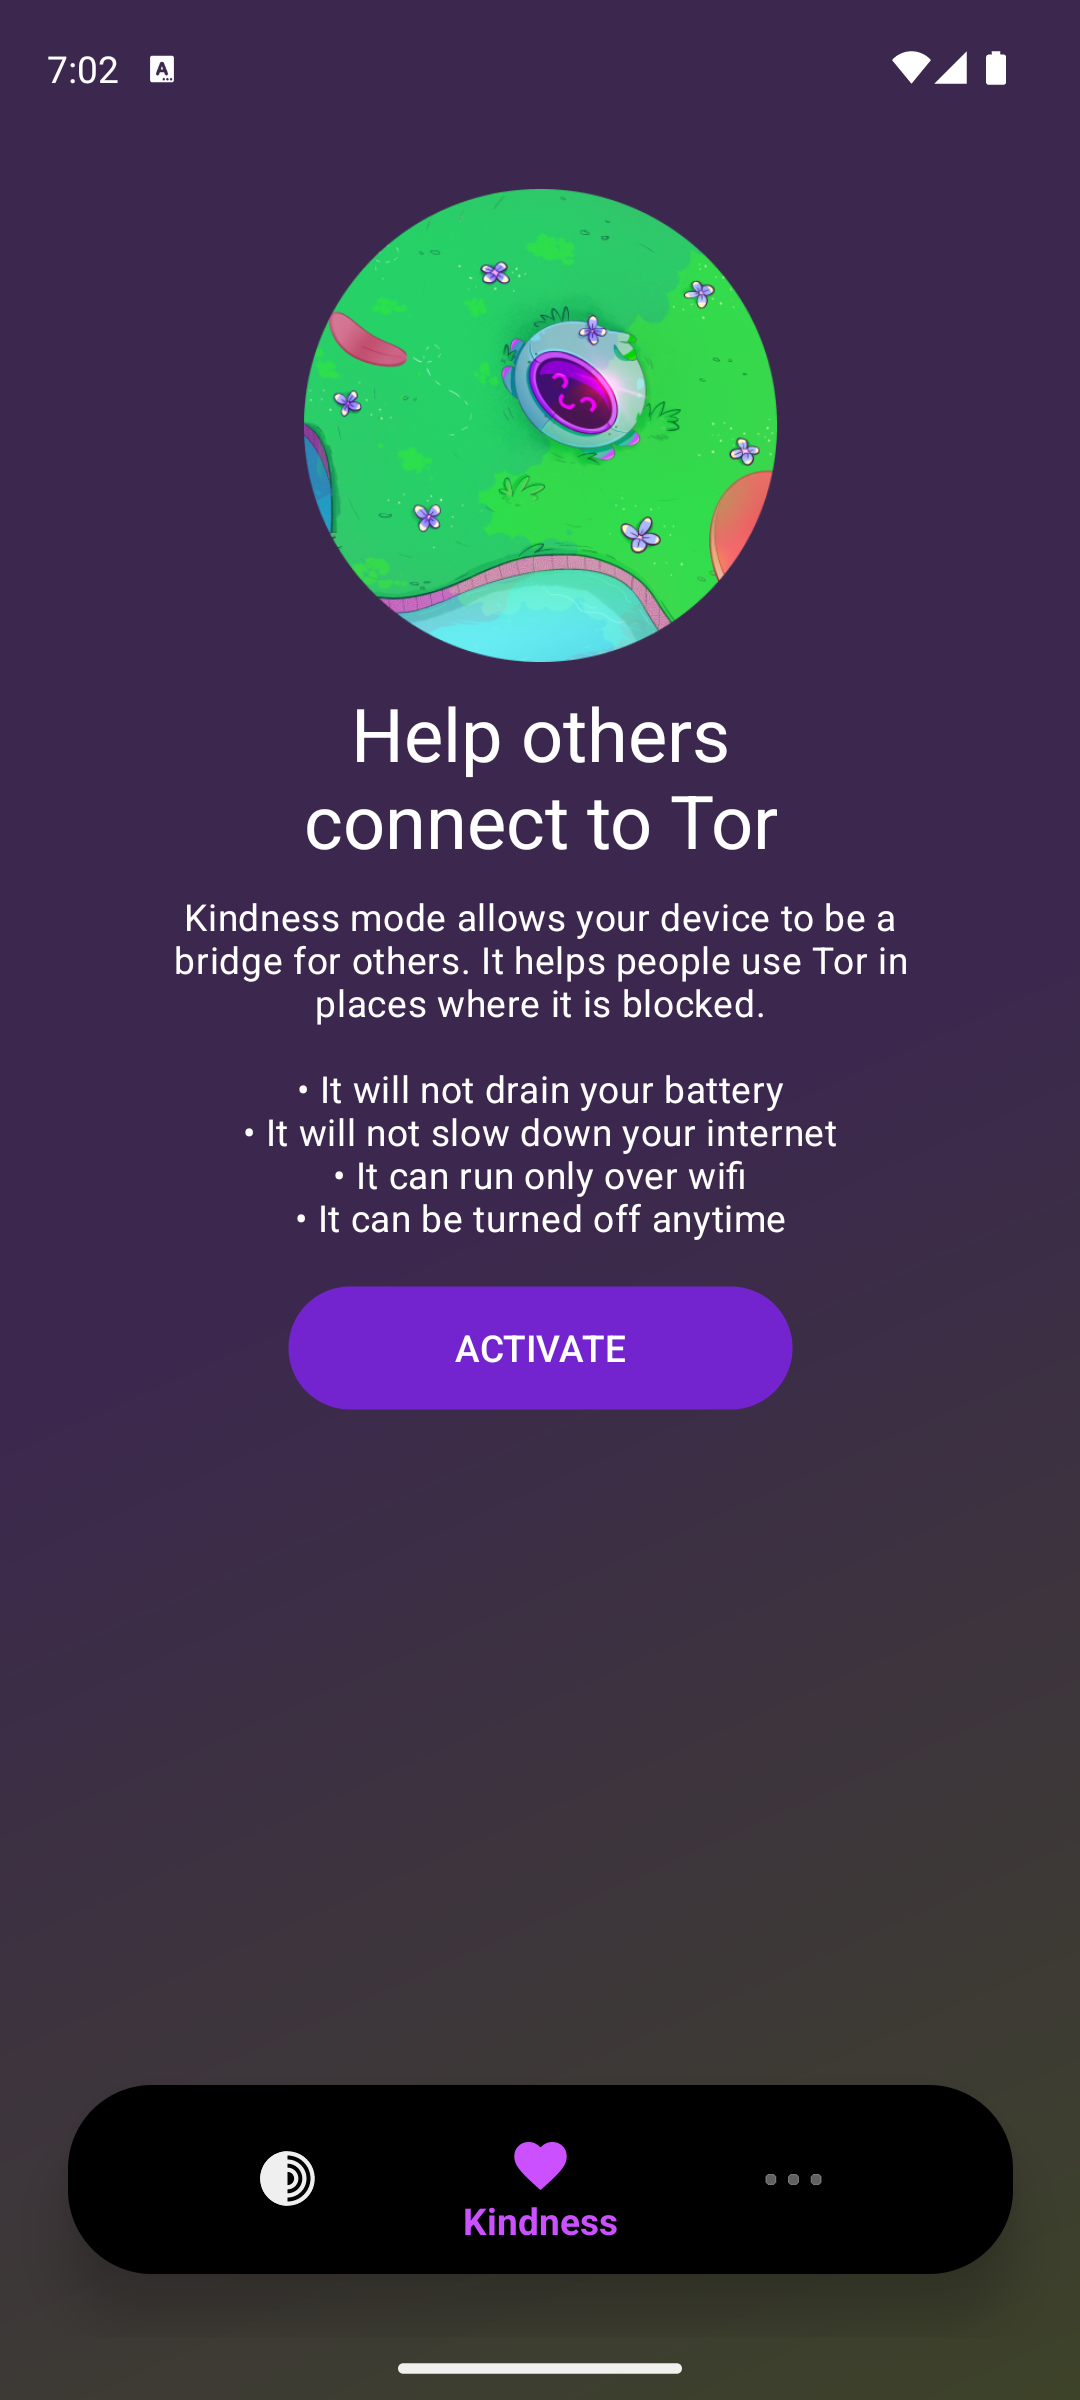
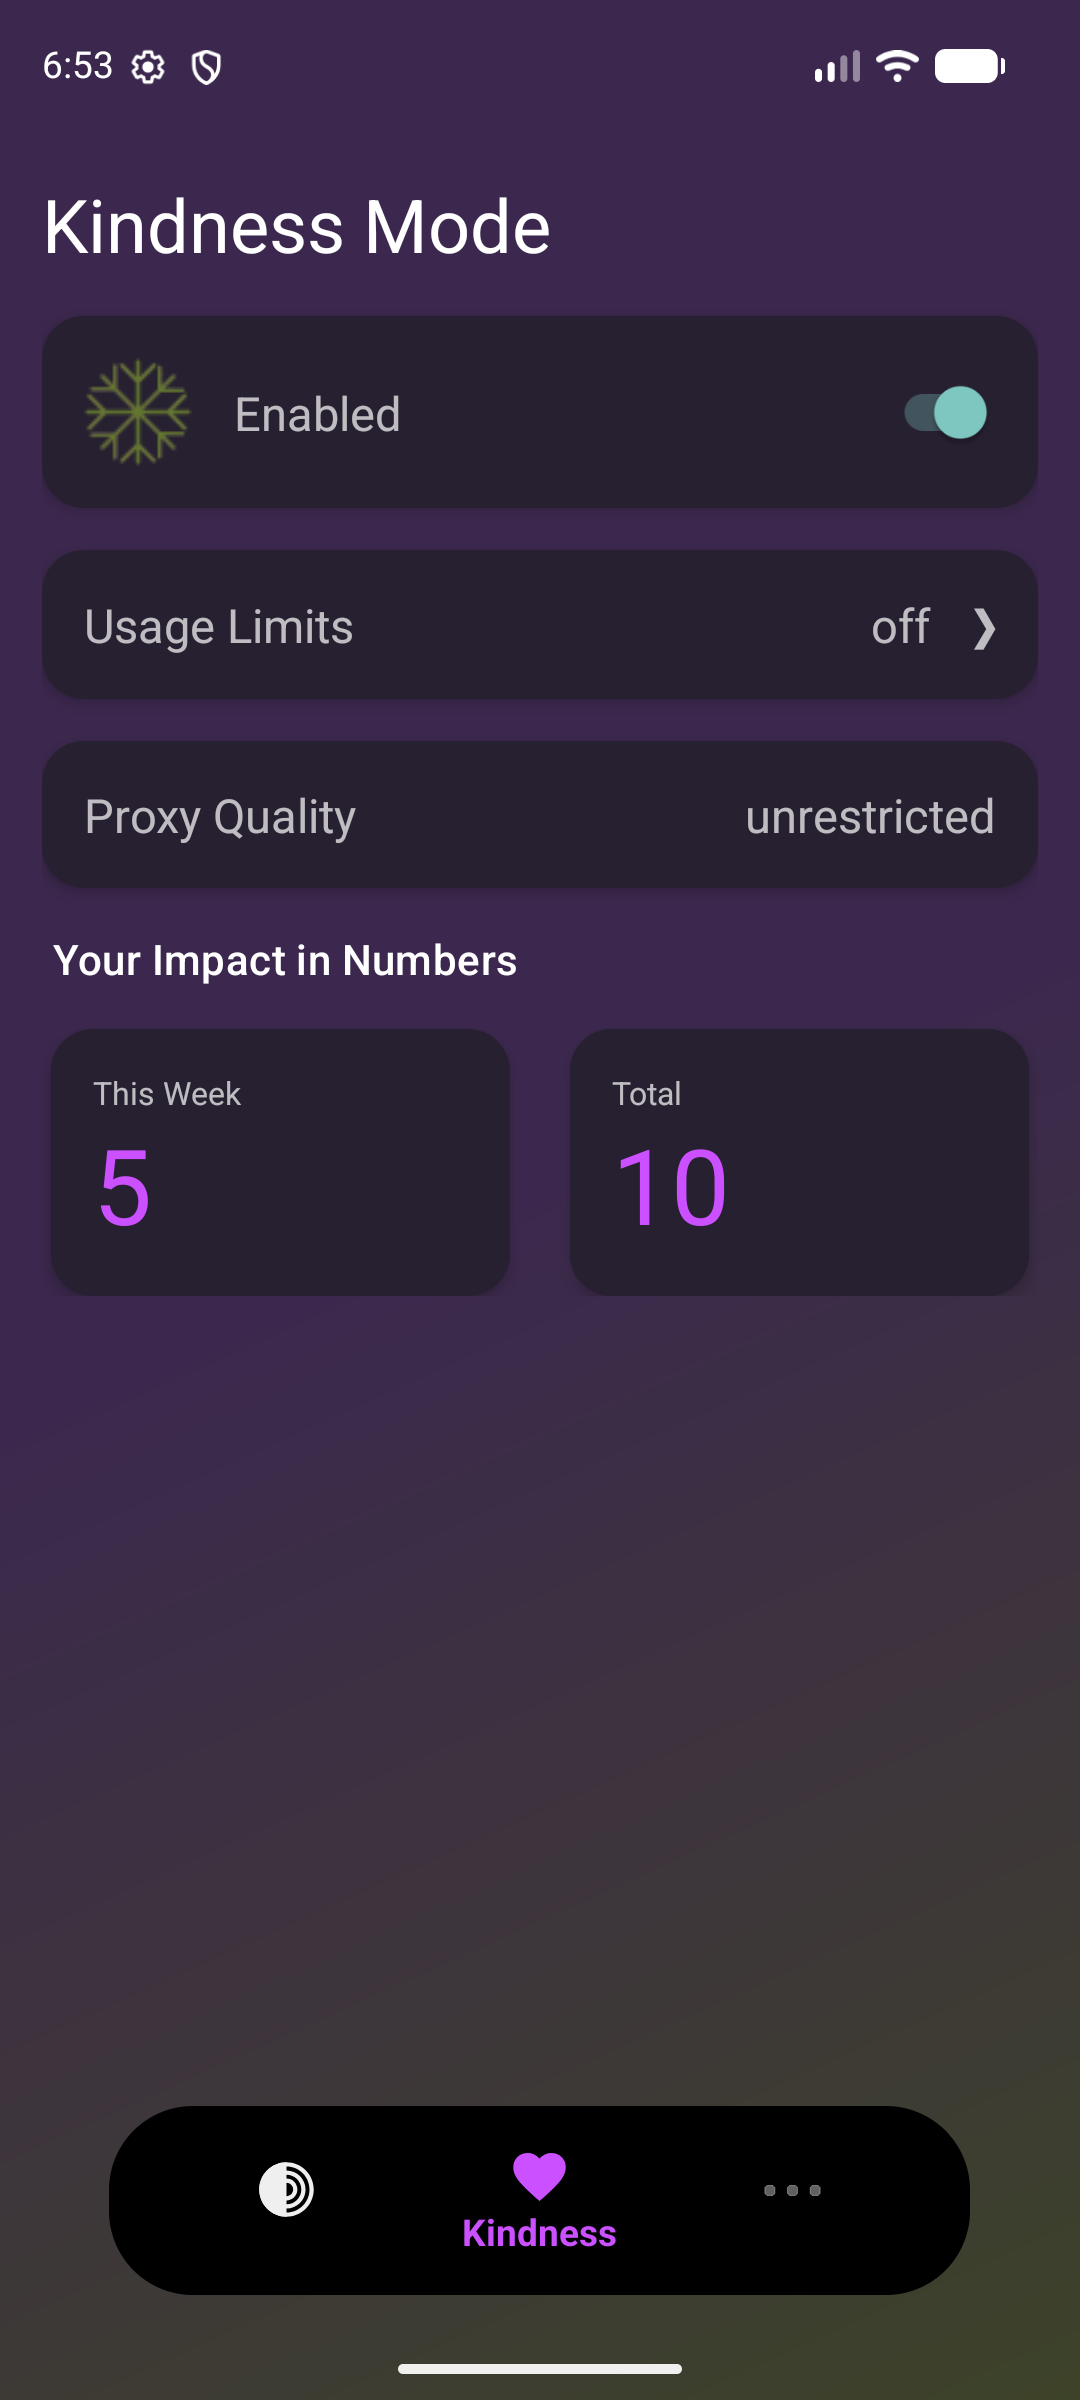
Fix kindness mode screenshot after UI was reworked for this new release

diff --git a/app/src/androidTest/java/org/torproject/android/ScreenshotKindnessModeFragment.kt b/app/src/androidTest/java/org/torproject/android/ScreenshotKindnessModeFragment.kt
@@ -7,13 +7,30 @@ import androidx.test.espresso.matcher.ViewMatchers.withContentDescription
 import androidx.test.espresso.matcher.ViewMatchers.withId
 import androidx.test.ext.junit.rules.ActivityScenarioRule
 import org.hamcrest.Matchers.allOf
+import org.junit.After
+import org.junit.Before
 import org.junit.Rule
 import org.junit.Test
+import org.torproject.android.util.Prefs
+import org.torproject.android.util.putPref
 import tools.fastlane.screengrab.Screengrab
 
 class ScreenshotKindnessModeFragment : BaseScreenshotTest() {
     @get:Rule
     var mActivityScenarioRule = ActivityScenarioRule(OrbotActivity::class.java)
+
+    @Before
+    fun setupPrefs() {
+
+        for (i in 1..5) Prefs.addSnowflakeServed()
+        Prefs.resetSnowflakesServedWeekly()
+        for (i in 1..5) Prefs.addSnowflakeServed()
+        Prefs.bridgeCountry = ""
+        Prefs.snowflakeNeedsQualityCheck = false
+        Prefs.beSnowflakeProxy = true
+        Prefs.snowflakeProxyRunning = true
+        Prefs.lastSnowflakeNatType = IPtProxy.IPtProxy.NATUnrestricted
+    }
 
     @Test
     fun openKindnessModeFragment() {
@@ -33,6 +50,14 @@ class ScreenshotKindnessModeFragment : BaseScreenshotTest() {
         )
         bottomNavigationItemView.perform(click())
         Screengrab.screenshot("D-kindness_mode_screen")
+    }
+
+    @After
+    fun cleanup() {
+        getContext()?.contentResolver?.apply {
+            putPref("pref_snowflakes_served", 0)
+            putPref("pref_snowflakes_served_weekly", 0)
+        }
     }
 
 }

diff --git a/app/src/main/java/org/torproject/android/util/Prefs.kt b/app/src/main/java/org/torproject/android/util/Prefs.kt
@@ -111,7 +111,7 @@ object Prefs {
             cr?.let {
                 it.putPref(PREF_BRIDGE_COUNTRY, value)
                 if (Regionalization.isKindnessModeDisabledForCountry()) {
-                    setBeSnowflakeProxy(beSnowflakeProxy = false)
+                    beSnowflakeProxy = false
                     snowflakeNeedsQualityCheck = true
                 }
             }
@@ -126,16 +126,12 @@ object Prefs {
         return cr?.getPrefBoolean(PREF_DETECT_ROOT, true) ?: true
     }
 
-    fun beSnowflakeProxy(): Boolean {
-        return cr?.getPrefBoolean(PREF_BE_A_SNOWFLAKE) ?: false
-    }
+    var beSnowflakeProxy: Boolean
+        get() = cr?.getPrefBoolean(PREF_BE_A_SNOWFLAKE) ?: false
+        set(value) = cr?.putPref(PREF_BE_A_SNOWFLAKE, value) ?: Unit
 
     fun showSnowflakeProxyToast(): Boolean {
         return cr?.getPrefBoolean(PREF_SHOW_SNOWFLAKE_MSG) ?: false
-    }
-
-    fun setBeSnowflakeProxy(beSnowflakeProxy: Boolean) {
-        cr?.putPref(PREF_BE_A_SNOWFLAKE, beSnowflakeProxy)
     }
 
     fun setBeSnowflakeProxyLimitWifi(beSnowflakeProxy: Boolean) {
@@ -444,7 +440,7 @@ object Prefs {
         cr?.putPref(PREF_ORBOT_SERVICE_LOG, getOrbotServiceLog() + "\n" + logLine)
     }
 
-    fun getOrbotServiceLog() : String {
+    fun getOrbotServiceLog(): String {
         return cr?.getPrefString(PREF_ORBOT_SERVICE_LOG, "") ?: ""
     }
 }

diff --git a/app/src/main/java/org/torproject/android/ui/kindness/KindnessFragment.kt b/app/src/main/java/org/torproject/android/ui/kindness/KindnessFragment.kt
@@ -1,7 +1,6 @@
 package org.torproject.android.ui.kindness
 
 import IPtProxy.IPtProxy
-import android.app.AlertDialog
 import android.content.Intent
 import android.content.SharedPreferences
 import android.content.res.ColorStateList
@@ -28,9 +27,9 @@ class KindnessFragment : Fragment() {
         inflater: LayoutInflater, container: ViewGroup?, savedInstanceState: Bundle?
     ): View {
         mBinding = FragmentKindnessBinding.inflate(inflater)
-        mBinding.swVolunteerMode.isChecked = Prefs.beSnowflakeProxy()
+        mBinding.swVolunteerMode.isChecked = Prefs.beSnowflakeProxy
         mBinding.swVolunteerMode.setOnCheckedChangeListener { _, isChecked ->
-            Prefs.setBeSnowflakeProxy(isChecked)
+            Prefs.beSnowflakeProxy = isChecked
             activity?.let {
                 if (isChecked) {
                     SnowflakeProxyService.startSnowflakeProxyForegroundService(it)
@@ -117,7 +116,7 @@ class KindnessFragment : Fragment() {
             mBinding.ivHeader.setColorFilter(Color.GRAY, PorterDuff.Mode.SRC_IN)
             mBinding.ivHeader.alpha = 1f
         }
-        if (!Prefs.beSnowflakeProxy()) {
+        if (!Prefs.beSnowflakeProxy) {
             mBinding.swVolunteerHeader.text = getString(R.string.Disabled)
             grayIcon()
             return

diff --git a/app/src/main/java/org/torproject/android/OrbotActivity.kt b/app/src/main/java/org/torproject/android/OrbotActivity.kt
@@ -227,7 +227,7 @@ class OrbotActivity : BaseActivity() {
         sendIntentToService(OrbotConstants.CMD_ACTIVE)
 
 
-        if (Prefs.beSnowflakeProxy()) {
+        if (Prefs.beSnowflakeProxy) {
             SnowflakeProxyService.startSnowflakeProxyForegroundService(this)
         }
 